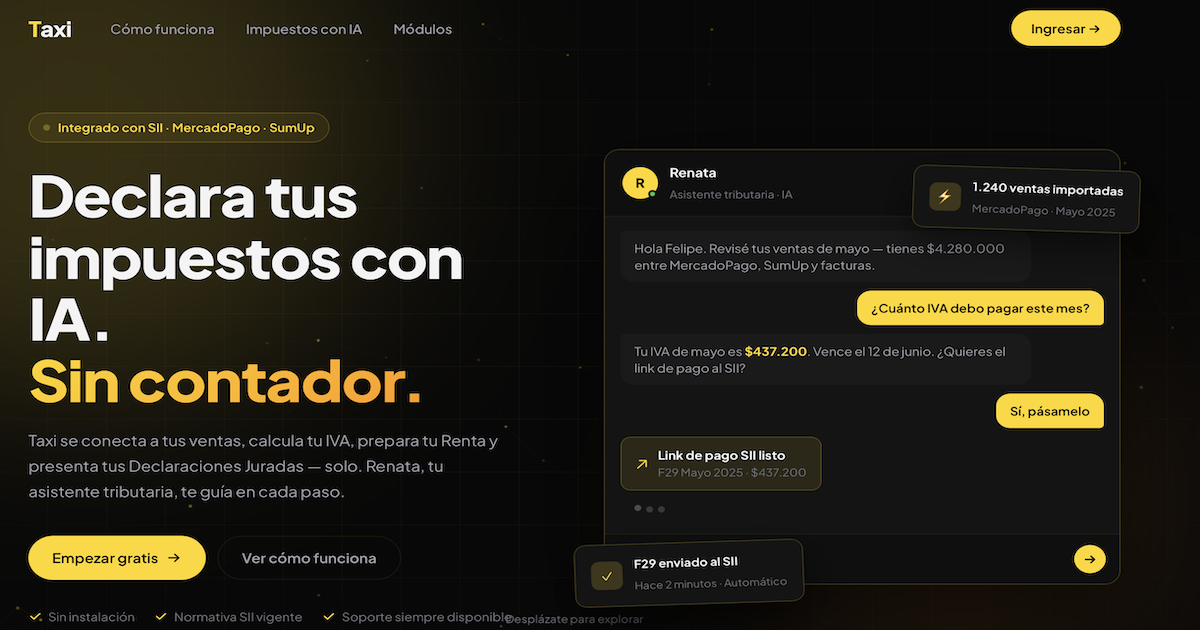
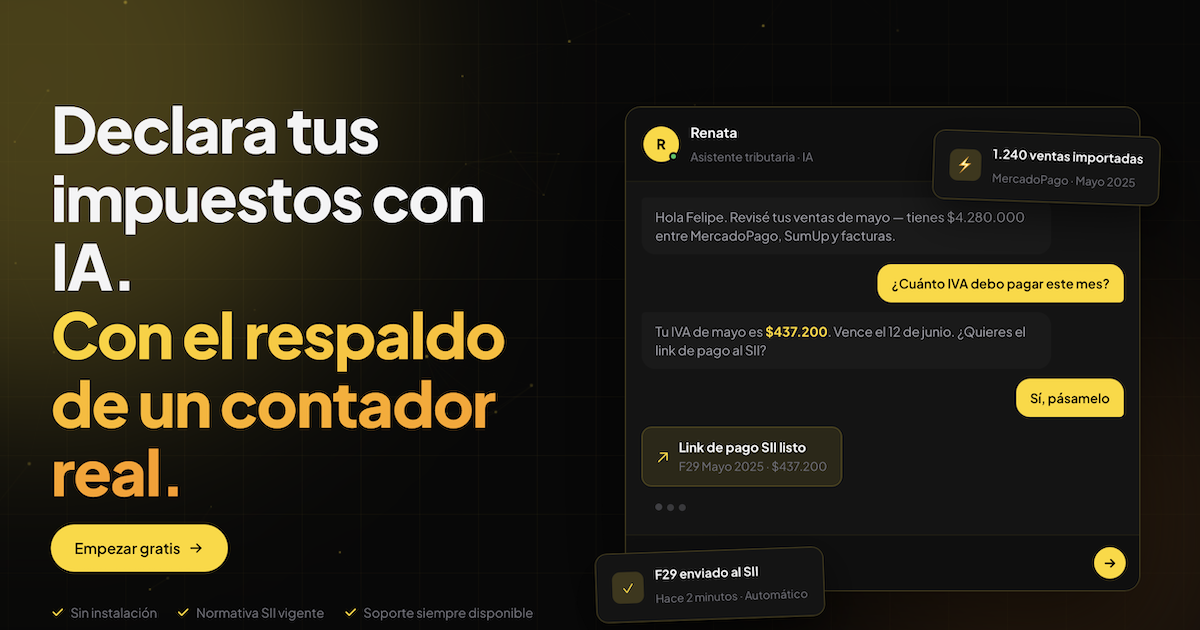
v6
mejoras visuales

diff --git a/index.html b/index.html
@@ -63,7 +63,7 @@
   <link rel="preconnect" href="https://fonts.googleapis.com" />
   <link rel="preconnect" href="https://fonts.gstatic.com" crossorigin />
   <link href="https://fonts.googleapis.com/css2?family=Plus+Jakarta+Sans:wght@300;400;500;600;700;800&display=swap" rel="stylesheet" />
-  <link rel="stylesheet" href="styles.css" />
+  <link rel="stylesheet" href="styles.css?v=2" />
 </head>
 <body>
 
@@ -637,6 +637,6 @@
     </div>
   </footer>
 
-  <script src="script.js"></script>
+  <script src="script.js?v=2"></script>
 </body>
 </html>

diff --git a/politica-de-privacidad.html b/politica-de-privacidad.html
@@ -19,7 +19,7 @@
   <link rel="preconnect" href="https://fonts.googleapis.com" />
   <link rel="preconnect" href="https://fonts.gstatic.com" crossorigin />
   <link href="https://fonts.googleapis.com/css2?family=Plus+Jakarta+Sans:wght@300;400;500;600;700;800&display=swap" rel="stylesheet" />
-  <link rel="stylesheet" href="styles.css" />
+  <link rel="stylesheet" href="styles.css?v=2" />
 </head>
 <body>
 
@@ -138,6 +138,6 @@
     </div>
   </footer>
 
-  <script src="script.js"></script>
+  <script src="script.js?v=2"></script>
 </body>
 </html>

diff --git a/terminos-de-servicio.html b/terminos-de-servicio.html
@@ -19,7 +19,7 @@
   <link rel="preconnect" href="https://fonts.googleapis.com" />
   <link rel="preconnect" href="https://fonts.gstatic.com" crossorigin />
   <link href="https://fonts.googleapis.com/css2?family=Plus+Jakarta+Sans:wght@300;400;500;600;700;800&display=swap" rel="stylesheet" />
-  <link rel="stylesheet" href="styles.css" />
+  <link rel="stylesheet" href="styles.css?v=2" />
 </head>
 <body>
 
@@ -162,6 +162,6 @@
     </div>
   </footer>
 
-  <script src="script.js"></script>
+  <script src="script.js?v=2"></script>
 </body>
 </html>

diff --git a/trabaja-con-nosotros.html b/trabaja-con-nosotros.html
@@ -19,7 +19,7 @@
   <link rel="preconnect" href="https://fonts.googleapis.com" />
   <link rel="preconnect" href="https://fonts.gstatic.com" crossorigin />
   <link href="https://fonts.googleapis.com/css2?family=Plus+Jakarta+Sans:wght@300;400;500;600;700;800&display=swap" rel="stylesheet" />
-  <link rel="stylesheet" href="styles.css" />
+  <link rel="stylesheet" href="styles.css?v=2" />
 </head>
 <body>
 
@@ -95,6 +95,6 @@
     </div>
   </footer>
 
-  <script src="script.js"></script>
+  <script src="script.js?v=2"></script>
 </body>
 </html>